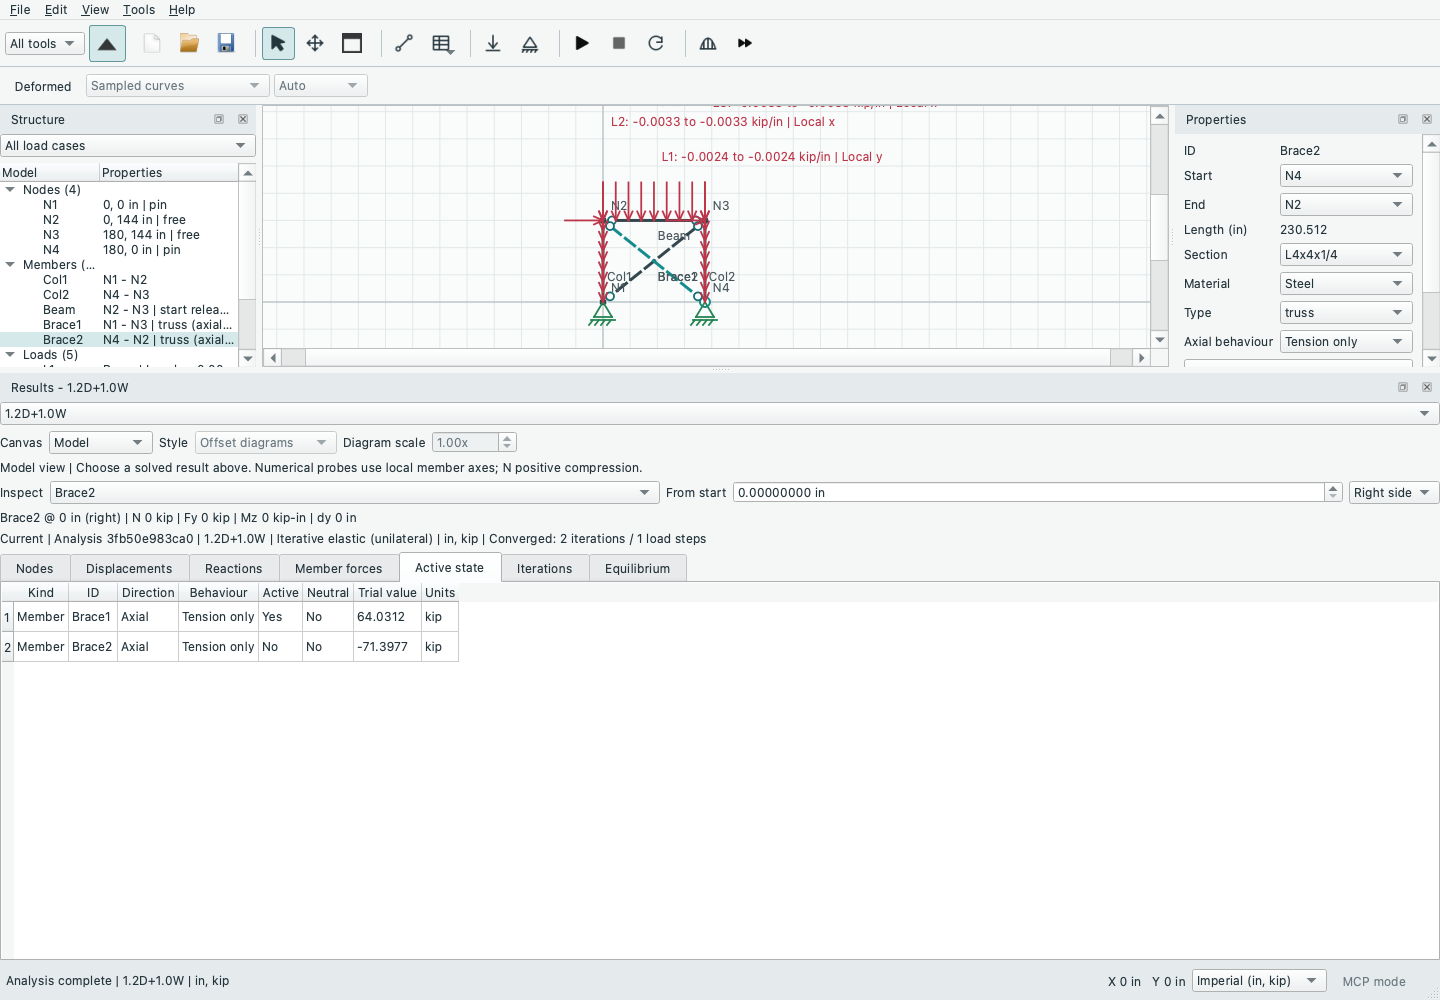
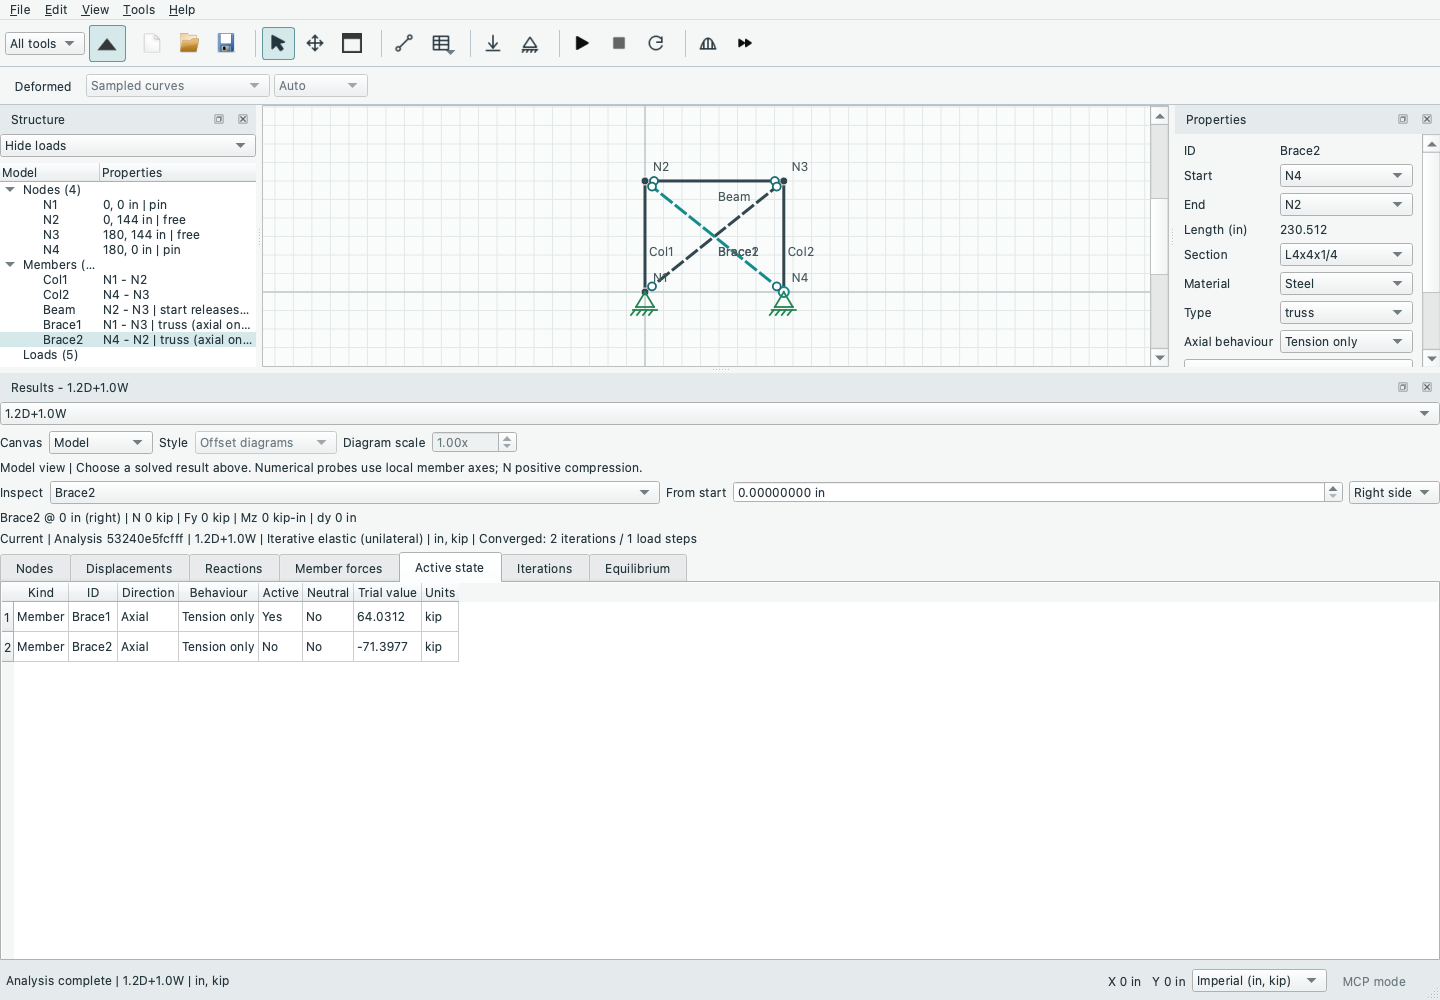
Fix unilateral documentation capture load visibility
Use the planar editor's existing load filter when capturing the active-state example.

diff --git a/scripts/capture_docs.py b/scripts/capture_docs.py
@@ -327,7 +327,7 @@ def capture_iterative(output):
             window.analysis_revision = window.revision
             window.analysis_finished(result, "")
             window.results_dock.show()
-            window.view.show_loads.setChecked(False)
+            window.load_filter.setCurrentIndex(window.load_filter.findData(False))
             window.select(("members", "Brace2"))
             window.results_panel.tabs.setCurrentIndex(window.results_panel.active_tab)
             window.resizeDocks([window.results_dock], [300], Qt.Orientation.Vertical)
